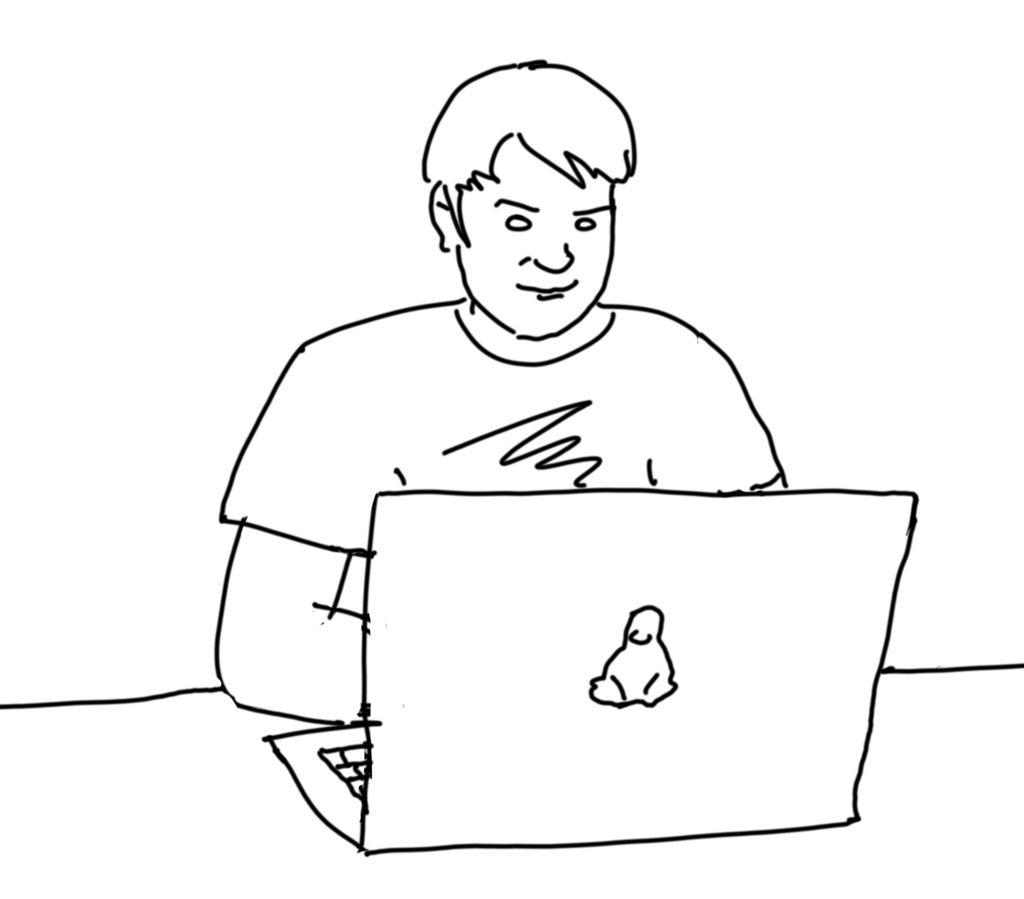
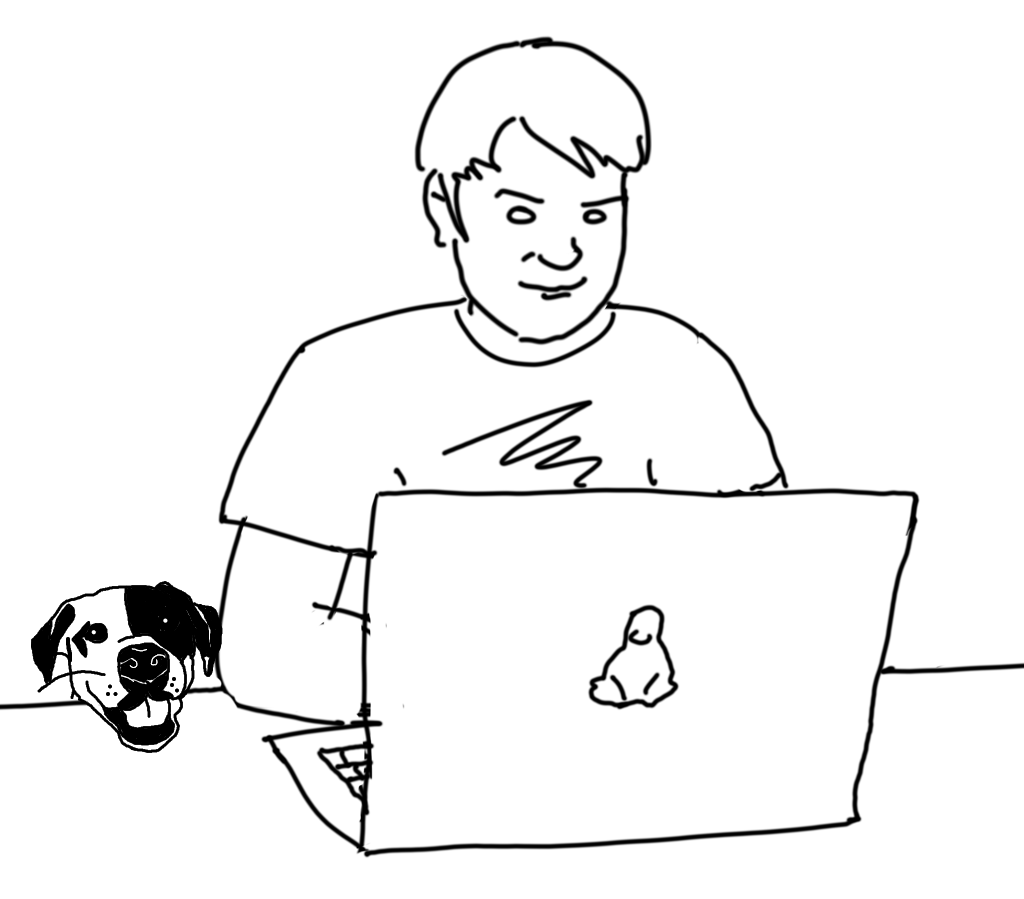
Add Mio to hero doodle

Changed region(s): [[0.4062, 0.0311, 0.6562, 0.4049], [0.0312, 0.6229, 0.2188, 0.8409], [0.4688, 0.3426, 0.5, 0.3737]]

diff --git a/index.html b/index.html
@@ -7,9 +7,9 @@ category: home
   <span class="text block">
     <p>
       I am a <strong>Product-oriented Software Developer</strong> and tech
-      enthusiast with a decade of experience in Software Development (Python,
-      Ruby, Javascript). I like building things people can use and making a
-      positive impact on their lives.
+      enthusiast with over a decade of experience (Python, Ruby, Javascript). I
+      like building things people can use and making a positive impact on their
+      lives.
     </p>
     <p>
       I am currently based in Berlin, Germany, working remotely in the EU area.
@@ -47,11 +47,11 @@ category: home
     <p>
       I enjoy <strong>bouldering and climbing</strong>, which helps me get a
       fresh perspective on things whenever I feel stuck. I spend a lot of time
-      with my dogs in nature and teaching them tricks. Both activities, climbing
-      and <strong>dog training</strong>, involve a lot of problem-solving and
-      finding creative solutions, which relate in many ways to coding.
-      Additionally, I enjoy spending time in the kitchen, trying out new recipes
-      and <strong>baking</strong> all sorts of desserts.
+      with my dogs in nature and I love teaching them tricks. Both activities,
+      climbing and <strong>dog training</strong>, involve a lot of
+      problem-solving and finding creative solutions, which relate in many ways
+      to coding. Additionally, I enjoy spending time in the kitchen, trying out
+      new recipes and <strong>baking</strong>.
     </p>
   </span>
 </div>
@@ -112,10 +112,13 @@ category: home
         about taking on diverse challenges and am open to various work
         arrangements </a
       >, including contract roles, freelancing, and consulting opportunities.
-      Remote only. With a strong foundation in web development, I specialize in
-      Django, Rails, ReactJS, and VueJS. Additionally, my skills extend to
-      product management, ensuring your projects are not only technically robust
-      but also strategically aligned with your business goals.
+      <strong>Remote only</strong>. With a strong foundation in web development,
+      I specialize in Django, Rails, ReactJS, and VueJS. Additionally, my skills
+      extend to product management, ensuring
+      <strong
+        >your projects are not only technically robust but also strategically
+        aligned with your business goals</strong
+      >.
     </i>
   </p>
 

diff --git a/pages/lets_work_together.md b/pages/lets_work_together.md
@@ -9,15 +9,15 @@ permalink: /lets_work_together/
 
 Are you looking for a Product-oriented Software Developer with a proven track record of turning ideas into reality? Look no further!
 
-I am **Marius Avram, a professional at the intersection of software development and product management based in Berlin, Germany, working within the EU area.**
+I am **Marius Avram, a professional at the intersection of software development and product management based in Berlin, Germany, working within the EU area**. Whether you're in need of a **proof of concept, MVP development, idea validation, or product management and coding expertise**, I'm here to deliver. I can help you navigate the complexities of technological decisions that can often feel overwhelming.Expect regular updates, meticulous documentation, swift communication, and a commitment to your project's success. Let's turn your vision into a tangible digital **success** story together.
 
 ![Marius Avram Profile Portrait](/assets/Marius_Avram_portrait.png){:class="portrait-lets-work"}{:loading="lazy"}
 
 ## Software Development
 
-With a robust background in full-stack development, I bring proficiency in various programming languages and frameworks. From crafting efficient, scalable, and clean code to optimising user experiences, I achieve successful software solutions with my technical skills.
+With a robust background in full-stack development, I bring proficiency in various programming languages, frameworks, technologies, and tools. From crafting efficient, scalable, and clean code to optimising user experiences, I achieve successful software solutions with my technical skills.
 
-With a strong foundation in web development, I specialise in _Django, Rails, ReactJS, and VueJS._
+With a strong foundation in web development, with over ten years of experience, I specialise in _Django, Rails, ReactJS, and VueJS._
 
 ## Product Management
 
@@ -72,7 +72,7 @@ I understand the importance of collaboration and effective communication. Throug
 - We will progress together through ideation, design, development, and deployment stages with scheduled video calls, collaborative design tools, and regular updates.
 - I will ensure post-launch success with ongoing support channels, feedback sessions, and documentation, maintaining a flexible and transparent communication approach throughout the entire process.
 
-Communication is key and most important part of the process!
+Communication and transparency are key and most important parts of the process!
 
 {: .flexi-items}
 [**Check out here what our collaboration would look like.**](/collaboration/){: .button}
@@ -82,7 +82,7 @@ Communication is key and most important part of the process!
 
 ## Let's Connect
 
-I am currently open to exciting opportunities and various work arrangements (including permanent positions, contract roles, freelancing, and consulting opportunities, remote or hybrid) where I can contribute my skills and passion for making ideas real.
+I am currently open to exciting opportunities and various work arrangements (including contract roles, freelancing, and consulting opportunities, remote) where I can contribute my skills and passion for making ideas real.
 
 Let's connect if you are looking for a Product-oriented Software Developer who can drive your projects to success!
 

diff --git a/pages/solutions.md b/pages/solutions.md
@@ -1,7 +1,7 @@
 ---
 layout: default
 title: Solutions
-description: Are you a small business owner, fitness enthusiast, or author looking for a standout online presence? Look no further! As your dedicated Freelance Product Manager and Software Developer, I bring personalised solutions to you.
+description: Are you a small business owner, fitness enthusiast, or author looking for a standout online presence? Look no further! As your dedicated Freelance Product-oriented Fullstack Software Developer, I bring personalised solutions to you.
 permalink: /solutions/
 ---
 
